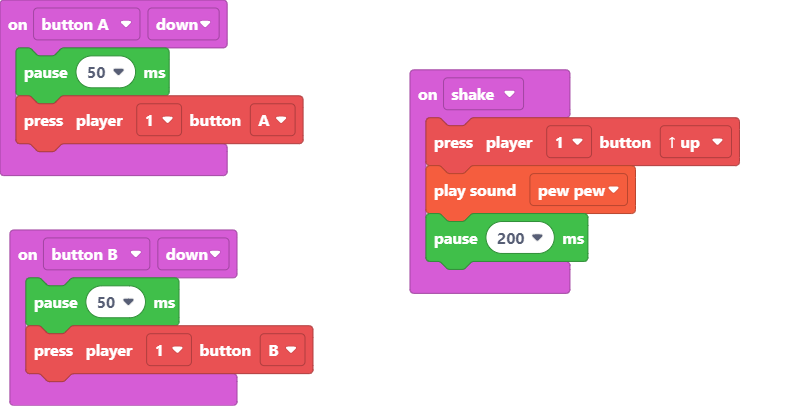
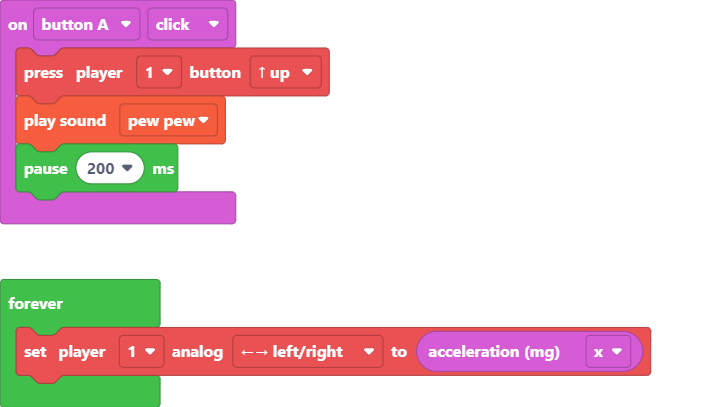
Update main.blocks, main.ts

diff --git a/main.ts b/main.ts
@@ -1,13 +1,8 @@
-input.buttonA.onEvent(ButtonEvent.Down, function () {
-    pause(50)
-    makerController.player1.press(ArcadeButton.A)
-})
-input.buttonB.onEvent(ButtonEvent.Down, function () {
-    pause(50)
-    makerController.player1.press(ArcadeButton.B)
-})
-input.onGesture(Gesture.Shake, function () {
+input.buttonA.onEvent(ButtonEvent.Click, function () {
     makerController.player1.press(ArcadeButton.Up)
     music.pewPew.play()
     pause(200)
+})
+forever(function () {
+    makerController.player1.setAnalog(ArcadeAnalogButton.LeftRight, input.acceleration(Dimension.X))
 })
